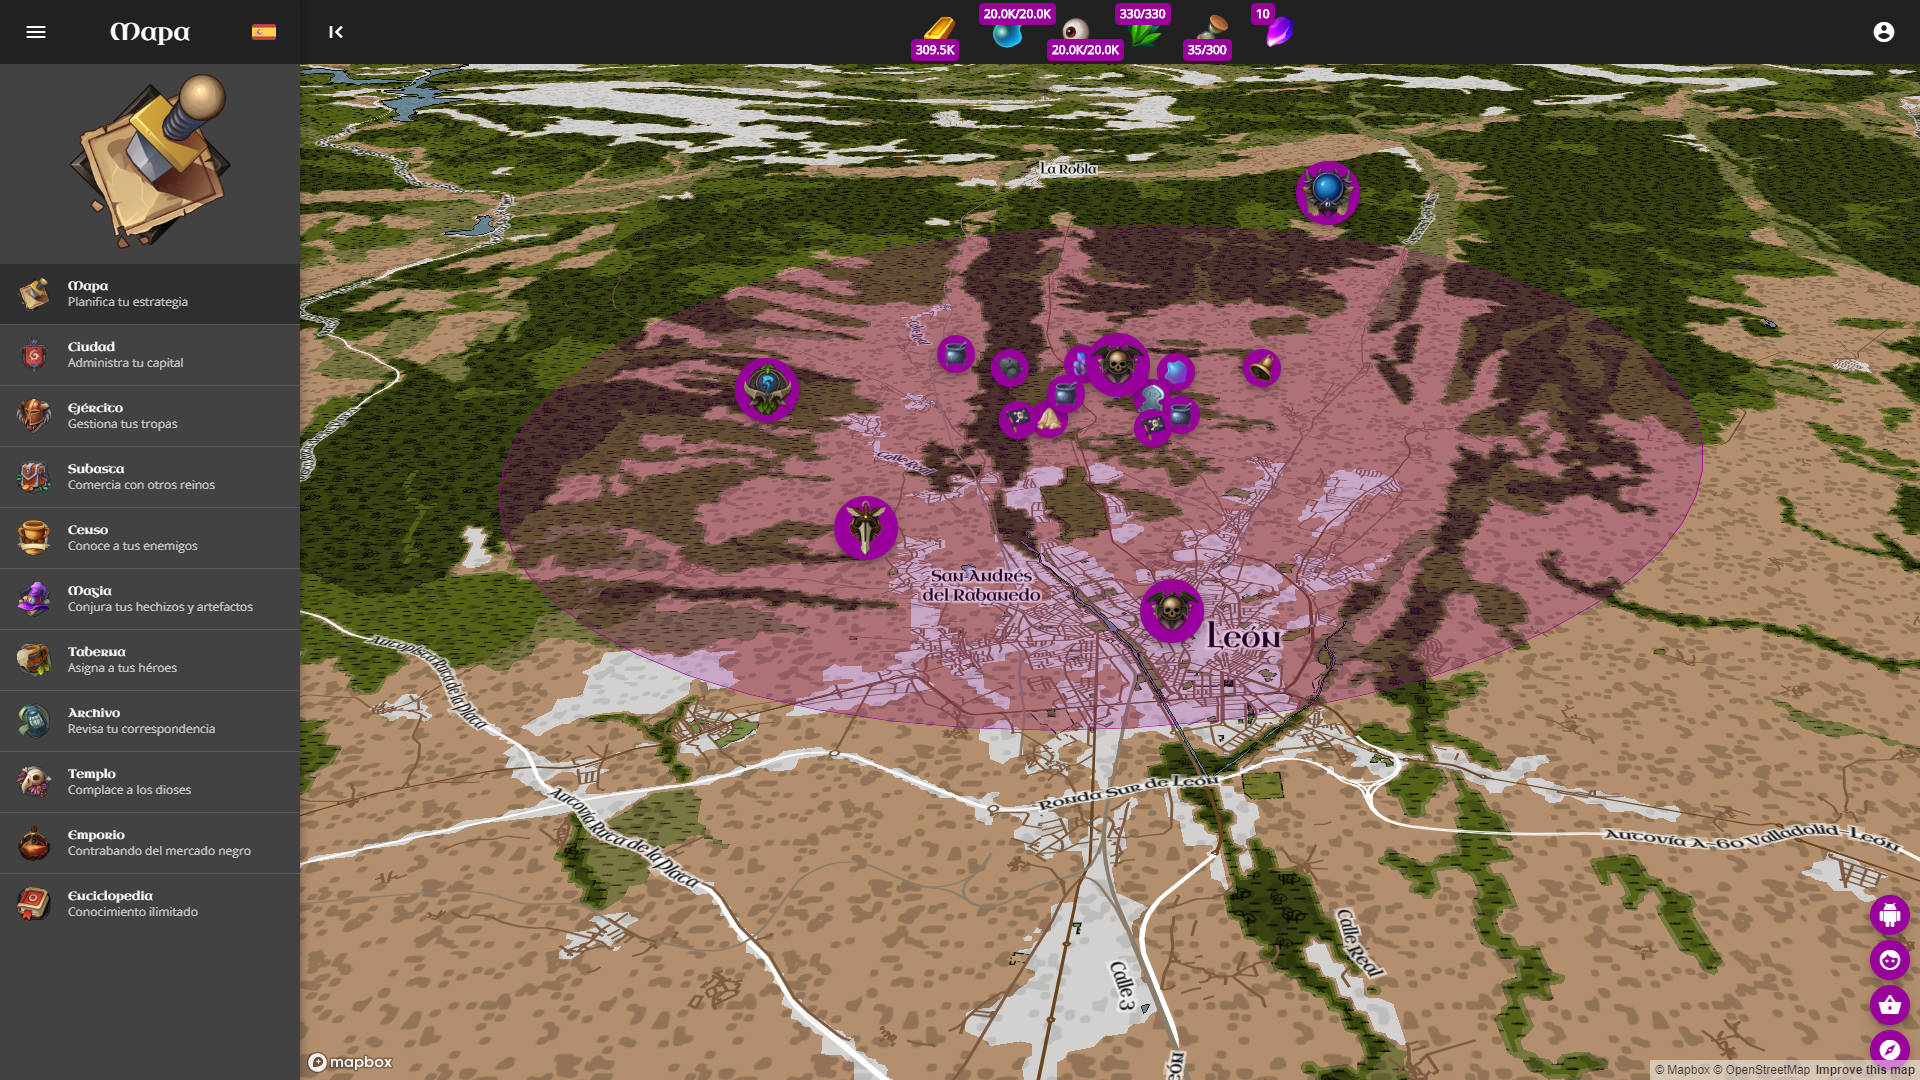
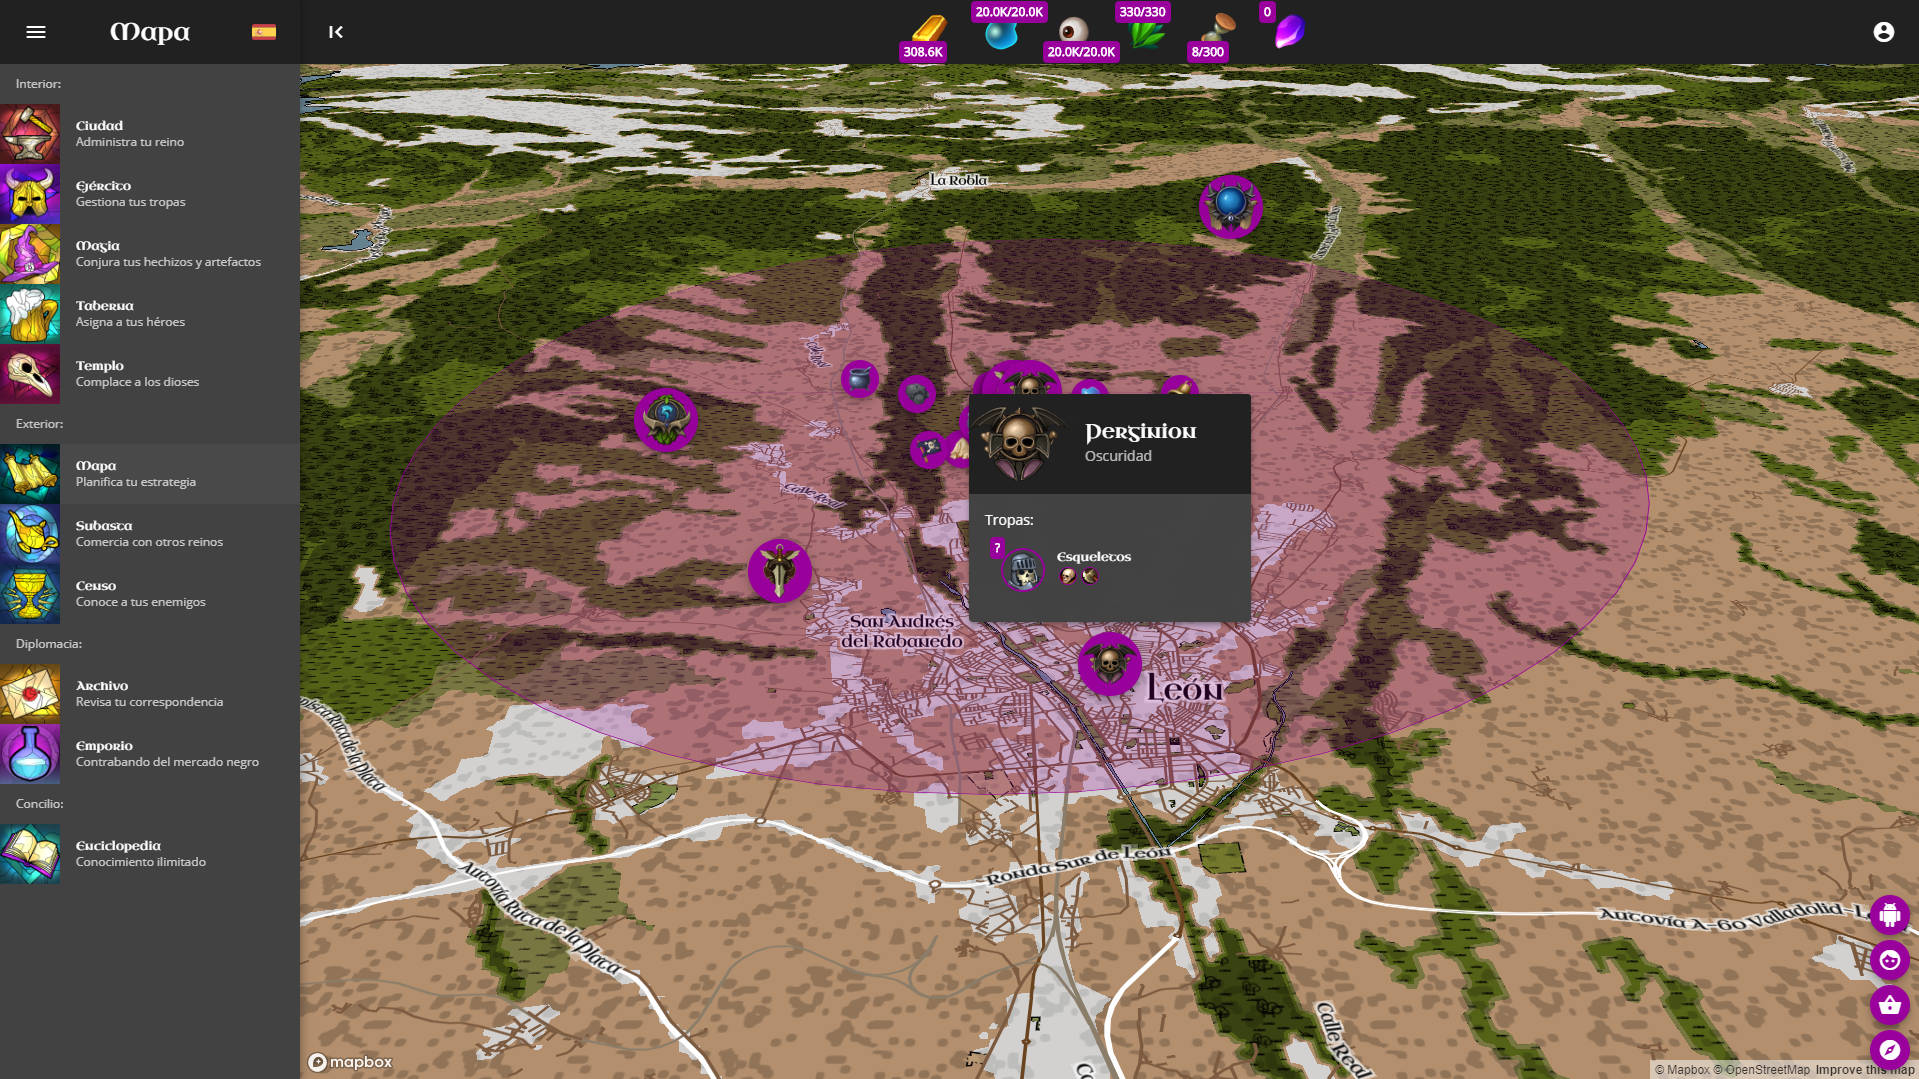
Improved layout

diff --git a/src/app/kingdom/city/city.component.html b/src/app/kingdom/city/city.component.html
@@ -14,8 +14,8 @@
       </mat-card-content>
 
       <mat-card-content>
+        <div matSubheader>{{ 'card.list.buildings' | translate }}:</div>
         <mat-action-list dense tourAnchor="tour.city">
-          <div matSubheader>{{ 'card.list.buildings' | translate }}:</div>
           <button mat-list-item *ngFor="let building of kingdomBuildings" (click)="openBuildDialog(building)">
             <div mat-list-avatar [matBadge]="building.quantity | long" matBadgePosition="above before">
               <img mat-list-avatar [src]="building.join.image">
@@ -50,8 +50,8 @@
           </mat-card-content>
 
           <mat-card-content>
+            <div matSubheader>{{ 'kingdom.tax.tax' | translate }}:</div>
             <mat-action-list dense tourAnchor="tour.tax">
-              <div matSubheader>{{ 'kingdom.tax.tax' | translate }}:</div>
               <button mat-list-item *ngIf="village" (click)="openTaxDialog(village)">
                 <div mat-list-avatar [matBadge]="village.quantity | long" matBadgePosition="above before">
                   <img mat-list-avatar [src]="village.join.image">
@@ -82,8 +82,8 @@
           </mat-card-content>
 
           <mat-card-content>
+            <div matSubheader>{{ 'kingdom.charge.charge' | translate }}:</div>
             <mat-action-list dense tourAnchor="tour.charge">
-              <div matSubheader>{{ 'kingdom.charge.charge' | translate }}:</div>
               <button mat-list-item *ngIf="node" (click)="openChargeDialog(node)">
                 <div mat-list-avatar [matBadge]="node.quantity | long" matBadgePosition="above before">
                   <img mat-list-avatar [src]="node.join.image">
@@ -114,8 +114,8 @@
           </mat-card-content>
 
           <mat-card-content>
+            <div matSubheader>{{ 'kingdom.explore.explore' | translate }}:</div>
             <mat-action-list dense tourAnchor="tour.explore">
-              <div matSubheader>{{ 'kingdom.explore.explore' | translate }}:</div>
               <button mat-list-item *ngIf="land$ | async" (click)="openExploreDialog(land$)">
                 <div mat-list-avatar [matBadge]="(land$ | async)?.quantity | long" matBadgePosition="above before">
                   <img mat-list-avatar src="/assets/images/resources/land.png">

diff --git a/src/app/kingdom/army/army.component.html b/src/app/kingdom/army/army.component.html
@@ -49,7 +49,8 @@
 
           <mat-card-content>
             <div matSubheader>{{ 'card.list.troops' | translate }}:</div>
-            <mat-list dense class="dotted" id="1" tourAnchor="tour.attack" cdkDropList cdkDropListOrientation="vertical" (cdkDropListDropped)="assignTroop($event)" [cdkDropListData]="attackTroops"> <mat-list-item *ngFor="let troop of attackTroops" cdkDrag class="handle" [id]="troop.fid">
+            <mat-list dense class="dotted" id="1" tourAnchor="tour.attack" cdkDropList cdkDropListOrientation="vertical" (cdkDropListDropped)="assignTroop($event)" [cdkDropListData]="attackTroops">
+              <mat-list-item *ngFor="let troop of attackTroops" cdkDrag class="handle" [id]="troop.fid">
                 <div mat-list-avatar [matBadge]="troop.quantity | short" matBadgePosition="above before">
                   <img mat-list-avatar [src]="troop.join.image">
                 </div>
@@ -114,8 +115,8 @@
           </mat-card-content>
 
           <mat-card-content>
-            <div matSubheader>{{ 'card.list.troops' | translate }}:</div>
             <mat-action-list dense tourAnchor="tour.recruit">
+              <div matSubheader>{{ 'card.list.troops' | translate }}:</div>
               <button mat-list-item *ngFor="let unit of recruitUnits" (click)="openRecruitDialog(unit)">
                 <div mat-list-avatar matBadge="?" matBadgePosition="above before">
                   <img mat-list-avatar [src]="unit.image">

diff --git a/src/app/shared/shell/shell.component.html b/src/app/shared/shell/shell.component.html
@@ -90,6 +90,7 @@
         <mat-icon>account_circle</mat-icon>
       </button>
       <mat-menu #auth="matMenu">
+        <a mat-menu-item routerLink="/user/landing"><mat-icon>home</mat-icon>{{ 'user.landing.name' | translate }}</a>
         <a mat-menu-item routerLink="/user/login" *ngIf="!(angularFireAuth.authState | async)"><mat-icon>lock_open</mat-icon>{{ 'user.auth.login' | translate }}</a>
         <a mat-menu-item (click)="logout()" *ngIf="(angularFireAuth.authState | async)"><mat-icon>lock</mat-icon>{{ 'user.auth.logout' | translate }}</a>
         <a mat-menu-item (click)="tour()" *ngIf="(angularFireAuth.authState | async)"><mat-icon>live_help</mat-icon>{{ 'user.auth.tour' | translate }}</a>

diff --git a/src/styles.scss b/src/styles.scss
@@ -203,6 +203,17 @@ body {
   margin-top: 0 !important;
 }
 
+.mat-subheader {
+  display: flex;
+  box-sizing: border-box;
+  padding: 16px;
+  align-items: center;
+  color: rgba(255, 255, 255, 0.7);
+  font-size: 12px;
+  height: 40px;
+  line-height: 8px;
+}
+
 .mat-list-base:not(.mat-nav-list) {
   img.mat-list-avatar {
     box-sizing: content-box;
